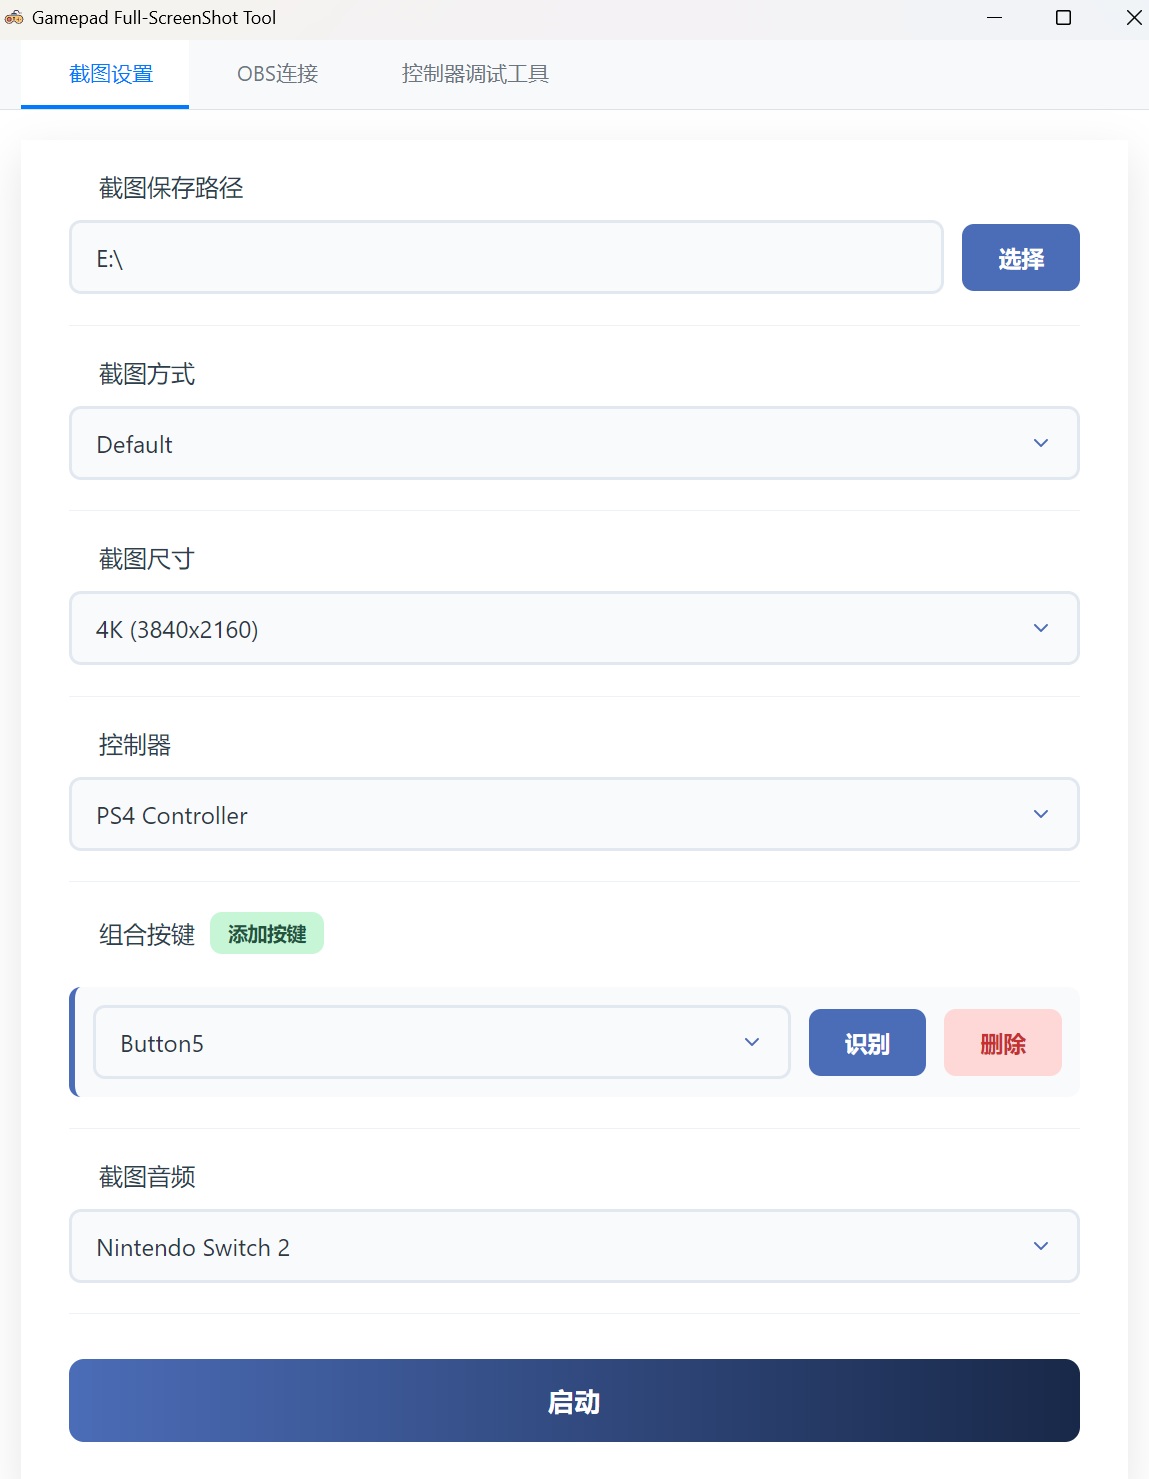
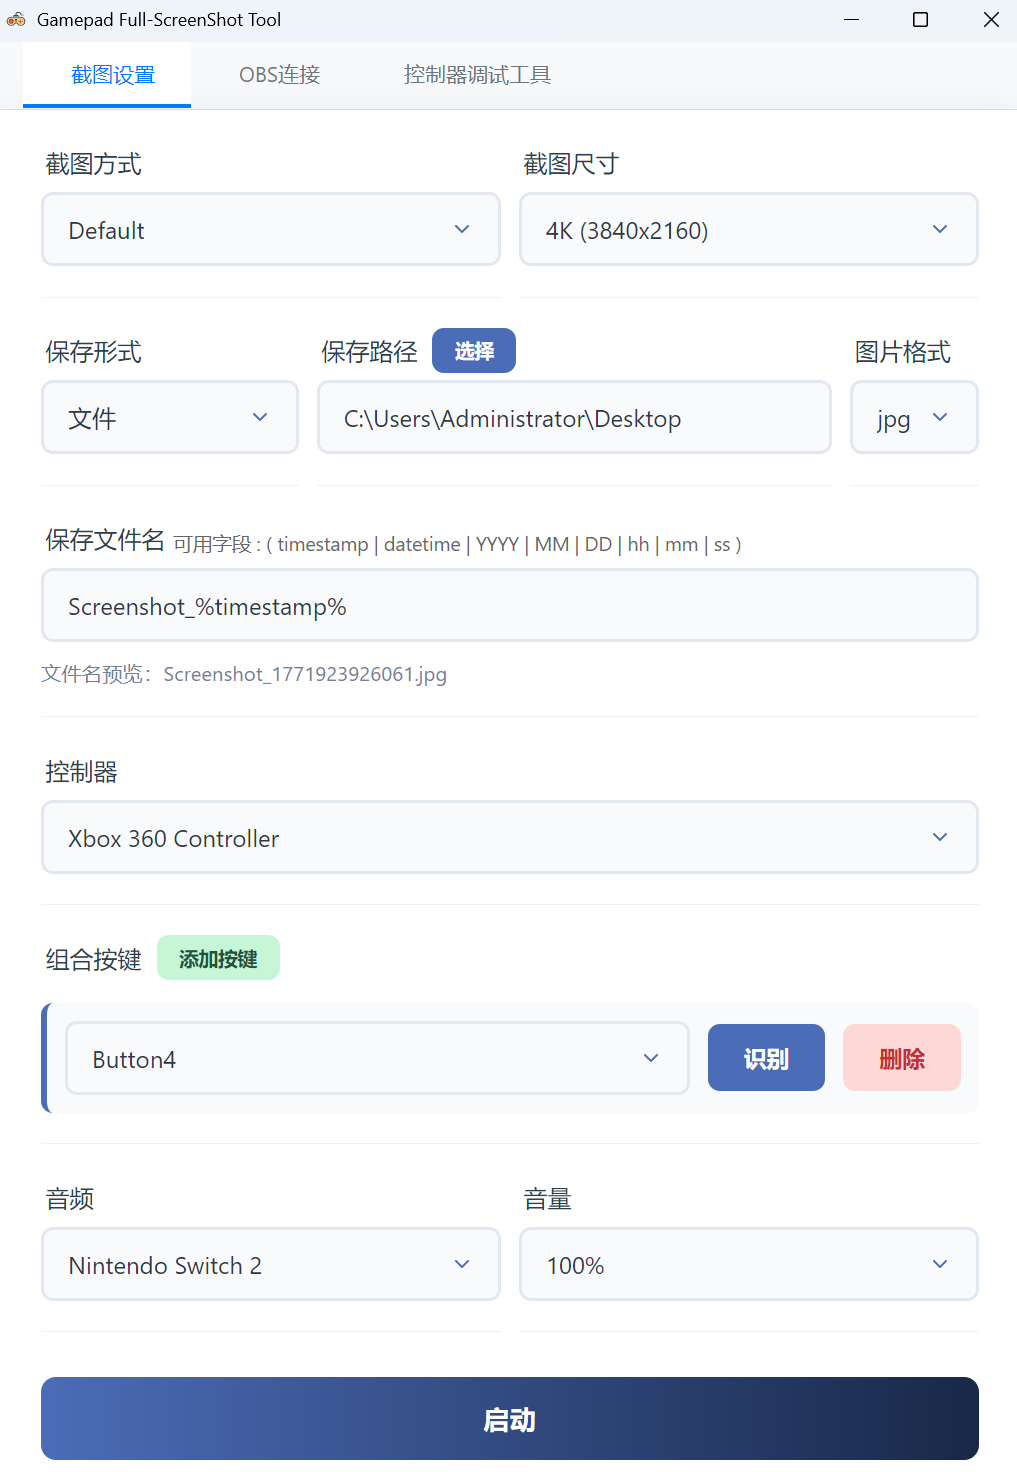
fix bug

diff --git a/src/components/MainPage.vue b/src/components/MainPage.vue
@@ -291,11 +291,26 @@ export default {
     async loadConfig(deviceName) {
       let STORAGE_KEY = deviceName
       const savedConfig = localStorage.getItem(STORAGE_KEY);
+
       if (savedConfig) {
         this.config = JSON.parse(savedConfig);
       } else {
         this.resetConfig();
       }
+
+      
+      //#region  升级老配置
+      if (this.config.fileNameTemplate == null || this.config.fileNameTemplate == undefined || this.config.fileNameTemplate.trim() == '') {
+        this.config.fileNameTemplate = 'Screenshot_%timestamp%'
+      }
+
+      if (this.config.screenShotSaveWay == null || this.config.screenShotSaveWay == undefined || this.config.screenShotSaveWay.trim() == '') {
+        this.config.screenShotSaveWay = ScreenShotSaveWayEnum.FileOnly
+      }
+      //#endregion
+
+      
+
     },
     async initDevice() {
       return false
@@ -337,9 +352,6 @@ export default {
       if (this.detectionIndex != -1) {
         alert('正在识别按键中');
         return;
-      }
-      if (this.config.fileNameTemplate.trim() == '') {
-        this.config.fileNameTemplate = 'Screenshot_%timestamp%'
       }
       //尝试启动
       let m_device = rawDevices[this.currentGamePad._index]
@@ -413,6 +425,9 @@ export default {
       }
     },
     formatFileName(template) {
+      if(template == null || template == undefined || template.trim() == '') {
+        return '';
+      }
       const now = new Date();
       const replacements = {
         '%timestamp%': now.getTime(),

diff --git a/README.md b/README.md
@@ -20,9 +20,11 @@
 
 一个允许你使用**手柄按钮(Button)组合**来触发**全屏截图** 或者 **OBS 截图** 的程序。
 
-- ✅ 支持组合键触发
-- ✅ 支持自定义手柄与外设扩展
-- ✅ 支持**OBS-Websocket**连接，使用**OBS场景**来截图
+- ✅ 组合键触发
+- ✅ 保存文件名自定义
+- ✅ 截图保存至剪切板
+- ✅ 截图音频播放
+- ✅ 对接**OBS-Websocket**，使用**OBS场景**来截图
 
 ---
 
